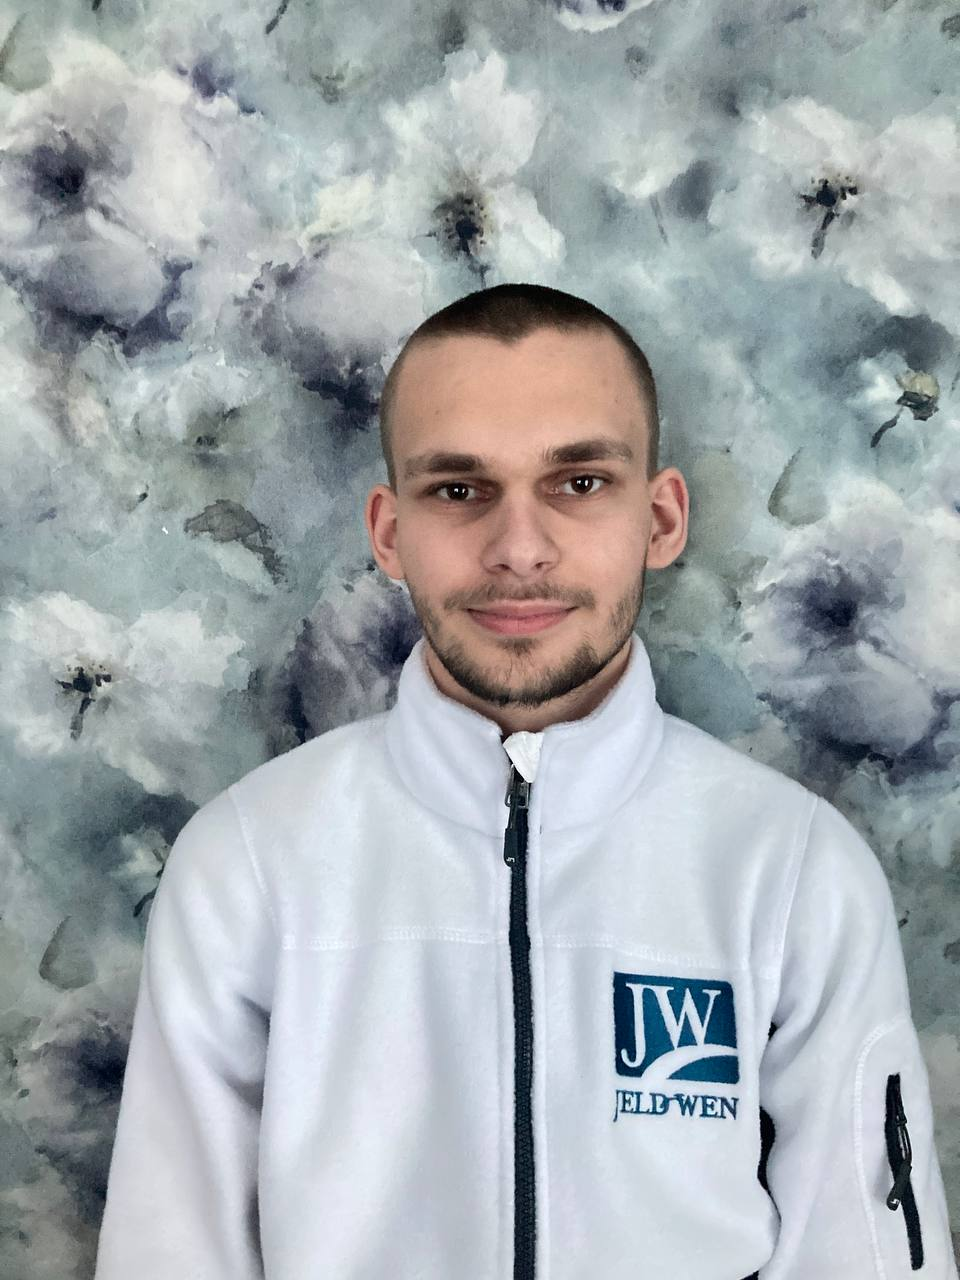
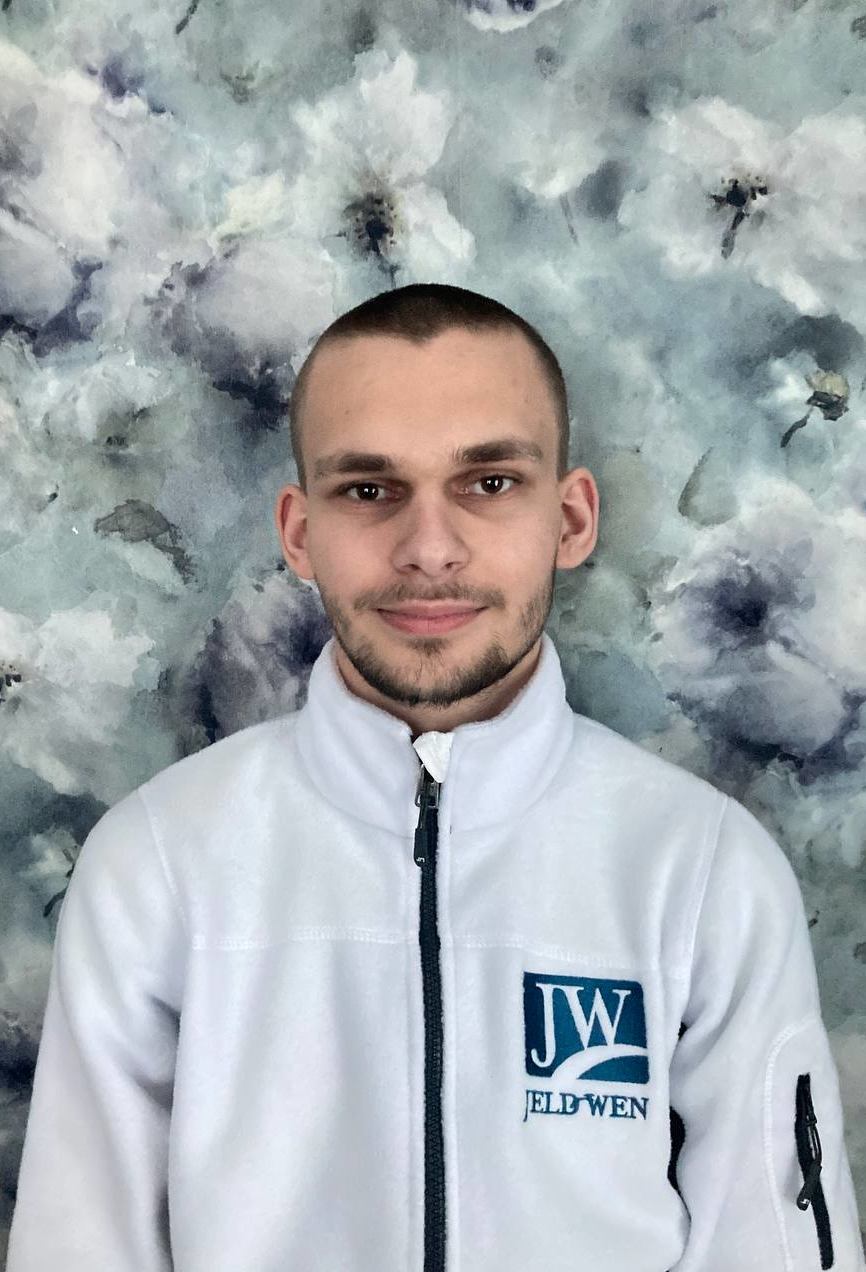
fixes to styling on index

diff --git a/index.html b/index.html
@@ -33,32 +33,47 @@
             margin: 5px;
         }
 
-
         .container {
-            display: flex;
-            flex-wrap: wrap;
-            margin-top: 70px;
-            margin-left: 1%;
-            margin-right: 1%;
-            overflow: hidden;
+    display: flex;
+    flex-wrap: wrap;
+    margin-top: 70px;
+    margin-left: 1%;
+    margin-right: 1%;
+    overflow: hidden;
+}
 
-        }
+.mepic {
+    background-color: var(--color3);
+    max-width: 500px;
+    overflow: hidden;
+    /* Hide overflow */
+}
 
-        .mepic {
+.mepic img {
+    width: 100%;
+    height: auto;
+}
 
-            background-color: var(--color3);
-            width: 100%;
-            max-width: 600px;
-            /* Adjust this value to your preference */
-            overflow: hidden;
-            /* Hide overflow */
-        }
+/* New CSS code */
+/* Existing CSS */
 
+@media (min-width: 768px) {
+    .container {
+        justify-content: space-between;
+    }
 
-        .mepic img {
-            width: 100%;
-            height: auto;
-        }
+    .mepic {
+        flex-grow: 1;
+        max-width: 40%; /* Adjust the value as per your preference */
+    }
+
+    .mepic img {
+        width: 100%;
+        height: auto;
+    }
+}
+
+ 
 
         .maintext,
         .contact,
@@ -81,7 +96,6 @@
             margin-left: 20px;
         }
 
-
         img {
             transform: translateY(10%);
             filter: grayscale(100%);
@@ -96,27 +110,31 @@
             scale: 120%;
         }
 
-
-        @media (max-width: 350) {
+        @media (max-width: 768px) {
             .container {
                 flex-direction: column;
                 margin-left: 1%;
-                /* Add this line to maintain 1% margin on small screens */
                 margin-right: 1%;
-                /* Add this line to maintain 1% margin on small screens */
             }
 
-            .mepic,
+            .mepic {
+                width: 100%;
+                max-width: none;
+                /* Remove the max-width constraint */
+            }
+
             .maintext,
             .contact,
             .traits-container {
                 width: 100%;
                 margin-left: 0;
-                /* Remove the left margin on small screens */
                 margin-right: 0;
-                /* Remove the right margin on small screens */
             }
         }
+
+
+
+
 
         p,
         li {
@@ -182,13 +200,13 @@
                 valmis pühenduma Linuxi serverite teenuste püstitamisele ning
                 vajadusel olen valmis selleks lisaks õppima.
             </p>
-            <br>
+            <br />
             <a href="./src/pdf/CV 10.09.2022 - Efe Marko Güldere.pdf" id="cv"><i class="fa-solid fa-id-card"></i> CV</a>
         </div>
 
         <div class="contact">
             <h2>Kontakt informatsioon</h2>
-            <p style="width: 100%;">
+            <p style="width: 100%">
                 <i class="fa-solid fa-phone" style="
               background-color: var(--color4);
               padding: 10px;
@@ -202,7 +220,8 @@
               padding: 10px;
               border-radius: 15px;
               color: var(--textcontrast);
-            "></i>&nbsp;&nbsp; <span style="  white-space: nowrap;">efe.marko.guldere@rak.ee</span>
+            "></i>&nbsp;&nbsp;
+                <span style="white-space: nowrap">efe.marko.guldere@rak.ee</span>
             </p>
             <p>
                 <i class="fa-solid fa-location-dot" style="
@@ -217,9 +236,8 @@
 
             <iframe
                 src="https://www.google.com/maps/embed?pb=!1m18!1m12!1m3!1d32548.662126265514!2d26.320370319804734!3d59.34478376611185!2m3!1f0!2f0!3f0!3m2!1i1024!2i768!4f13.1!3m3!1m2!1s0x469375d2d183e92b%3A0x400b36d18fc6760!2sRakvere%2C%20L%C3%A4%C3%A4ne-Viru%20County!5e0!3m2!1sen!2see!4v1696938004395!5m2!1sen!2see"
-                width="600" height="450" style="border:0;" allowfullscreen="" loading="lazy"
+                width="600" height="450" style="border: 0" allowfullscreen="" loading="lazy"
                 referrerpolicy="no-referrer-when-downgrade"></iframe>
-
         </div>
         <div class="traits-container">
             <h2>Isikuomadused</h2>
